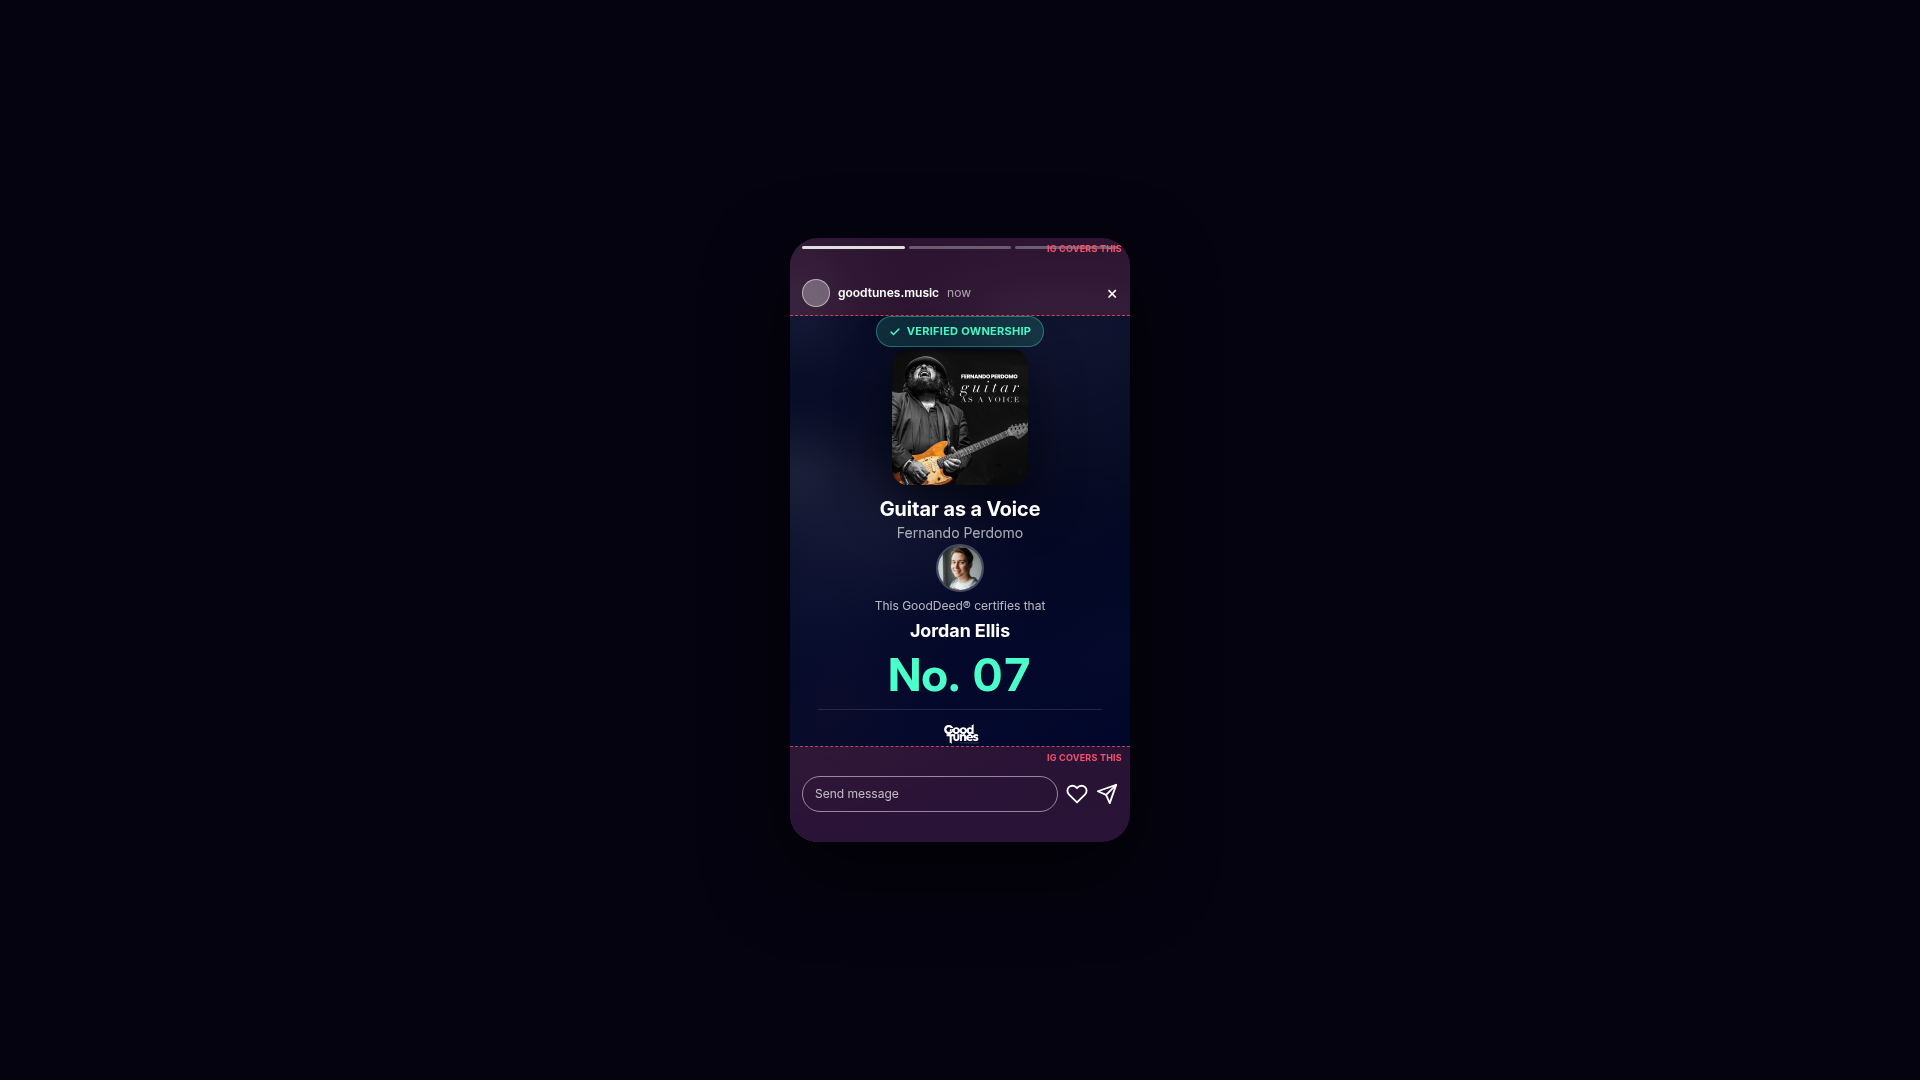
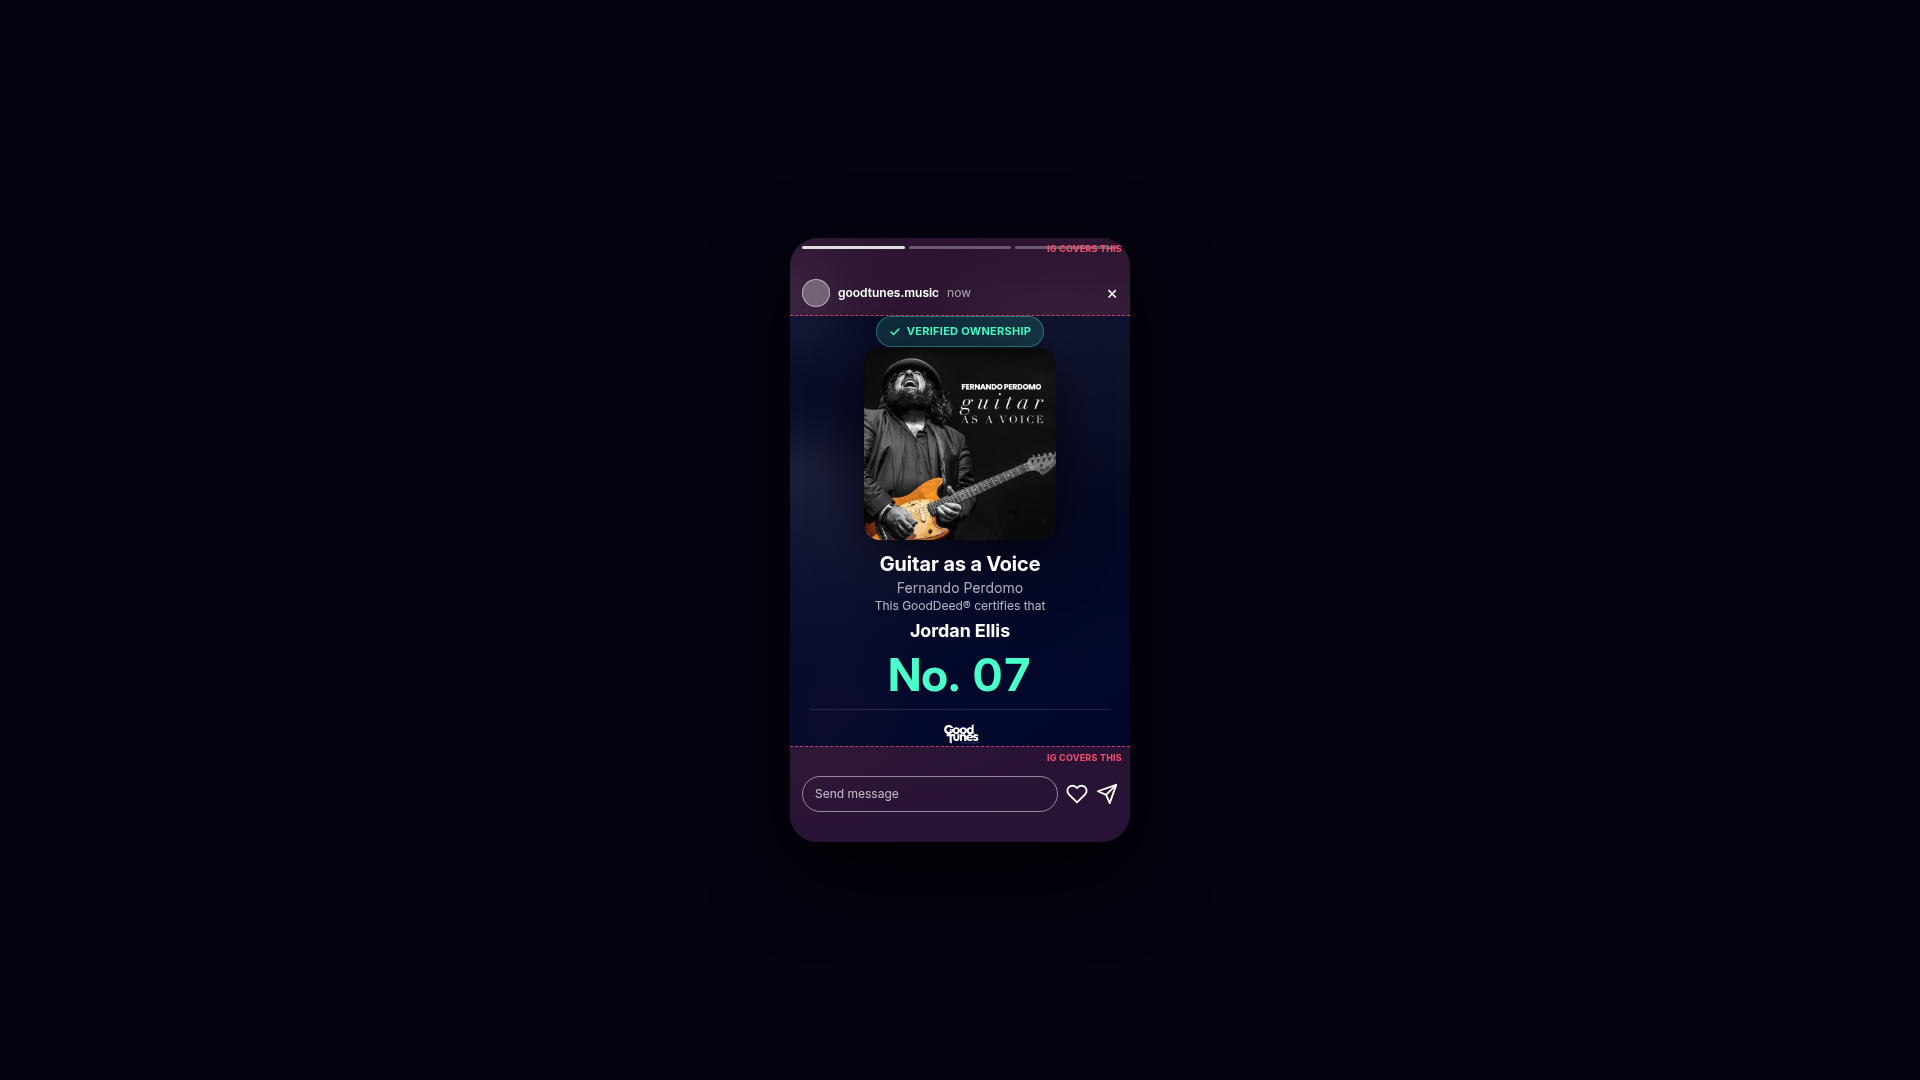
Improve story card layout by increasing album art size
Adjust StoryCard component to increase album art width to 64%, decrease horizontal padding, and remove the owner photo to prevent overlapping text and improve visual hierarchy.

Replit-Commit-Author: Agent
Replit-Commit-Session-Id: 05c2a2e8-5b06-4806-a9d5-d257ed0dfe21
Replit-Commit-Checkpoint-Type: full_checkpoint
Replit-Commit-Event-Id: 9c7236b6-394d-4f02-a9d2-89347b793096
Replit-Commit-Screenshot-Url: https://storage.googleapis.com/screenshot-production-us-central1/5293185b-8e25-4d4f-b8b2-dc5494b9adc6/05c2a2e8-5b06-4806-a9d5-d257ed0dfe21/mCTw8OC
Replit-Helium-Checkpoint-Created: true

Changed region(s): [[0.4375, 0.3056, 0.5625, 0.55]]

diff --git a/artifacts/mockup-sandbox/src/components/mockups/gooddeed-cert/Stories.tsx b/artifacts/mockup-sandbox/src/components/mockups/gooddeed-cert/Stories.tsx
@@ -55,7 +55,7 @@ export function StoryCard({ overlay }: { overlay?: ReactNode }) {
 
       {/* Foreground content — confined to the IG safe center band */}
       <div
-        className="absolute left-0 right-0 flex flex-col px-7"
+        className="absolute left-0 right-0 flex flex-col px-5"
         style={{ top: TOP_SAFE, bottom: BOTTOM_SAFE }}
       >
         {/* Verified pill */}
@@ -77,7 +77,7 @@ export function StoryCard({ overlay }: { overlay?: ReactNode }) {
         <div className="flex-1 min-h-0 flex flex-col items-center justify-center gap-3">
           <div
             className="rounded-2xl overflow-hidden shrink-0"
-            style={{ width: "48%", aspectRatio: "1/1", boxShadow: "0 18px 50px rgba(0,0,0,0.6)" }}
+            style={{ width: "64%", aspectRatio: "1/1", boxShadow: "0 18px 50px rgba(0,0,0,0.6)" }}
           >
             <img src={ART} alt={album.title} className="w-full h-full object-cover block" />
           </div>
@@ -89,7 +89,6 @@ export function StoryCard({ overlay }: { overlay?: ReactNode }) {
 
         {/* Ownership statement + serial */}
         <div className="flex flex-col items-center text-center gap-1.5 shrink-0">
-          <img src={OWNER_PHOTO} alt="" className="w-12 h-12 rounded-full object-cover border-2 border-white/25" />
           <p className="text-white/70 text-xs leading-snug">This GoodDeed® certifies that</p>
           <p className="text-white text-lg font-bold leading-tight">{ownerName}</p>
           <p
